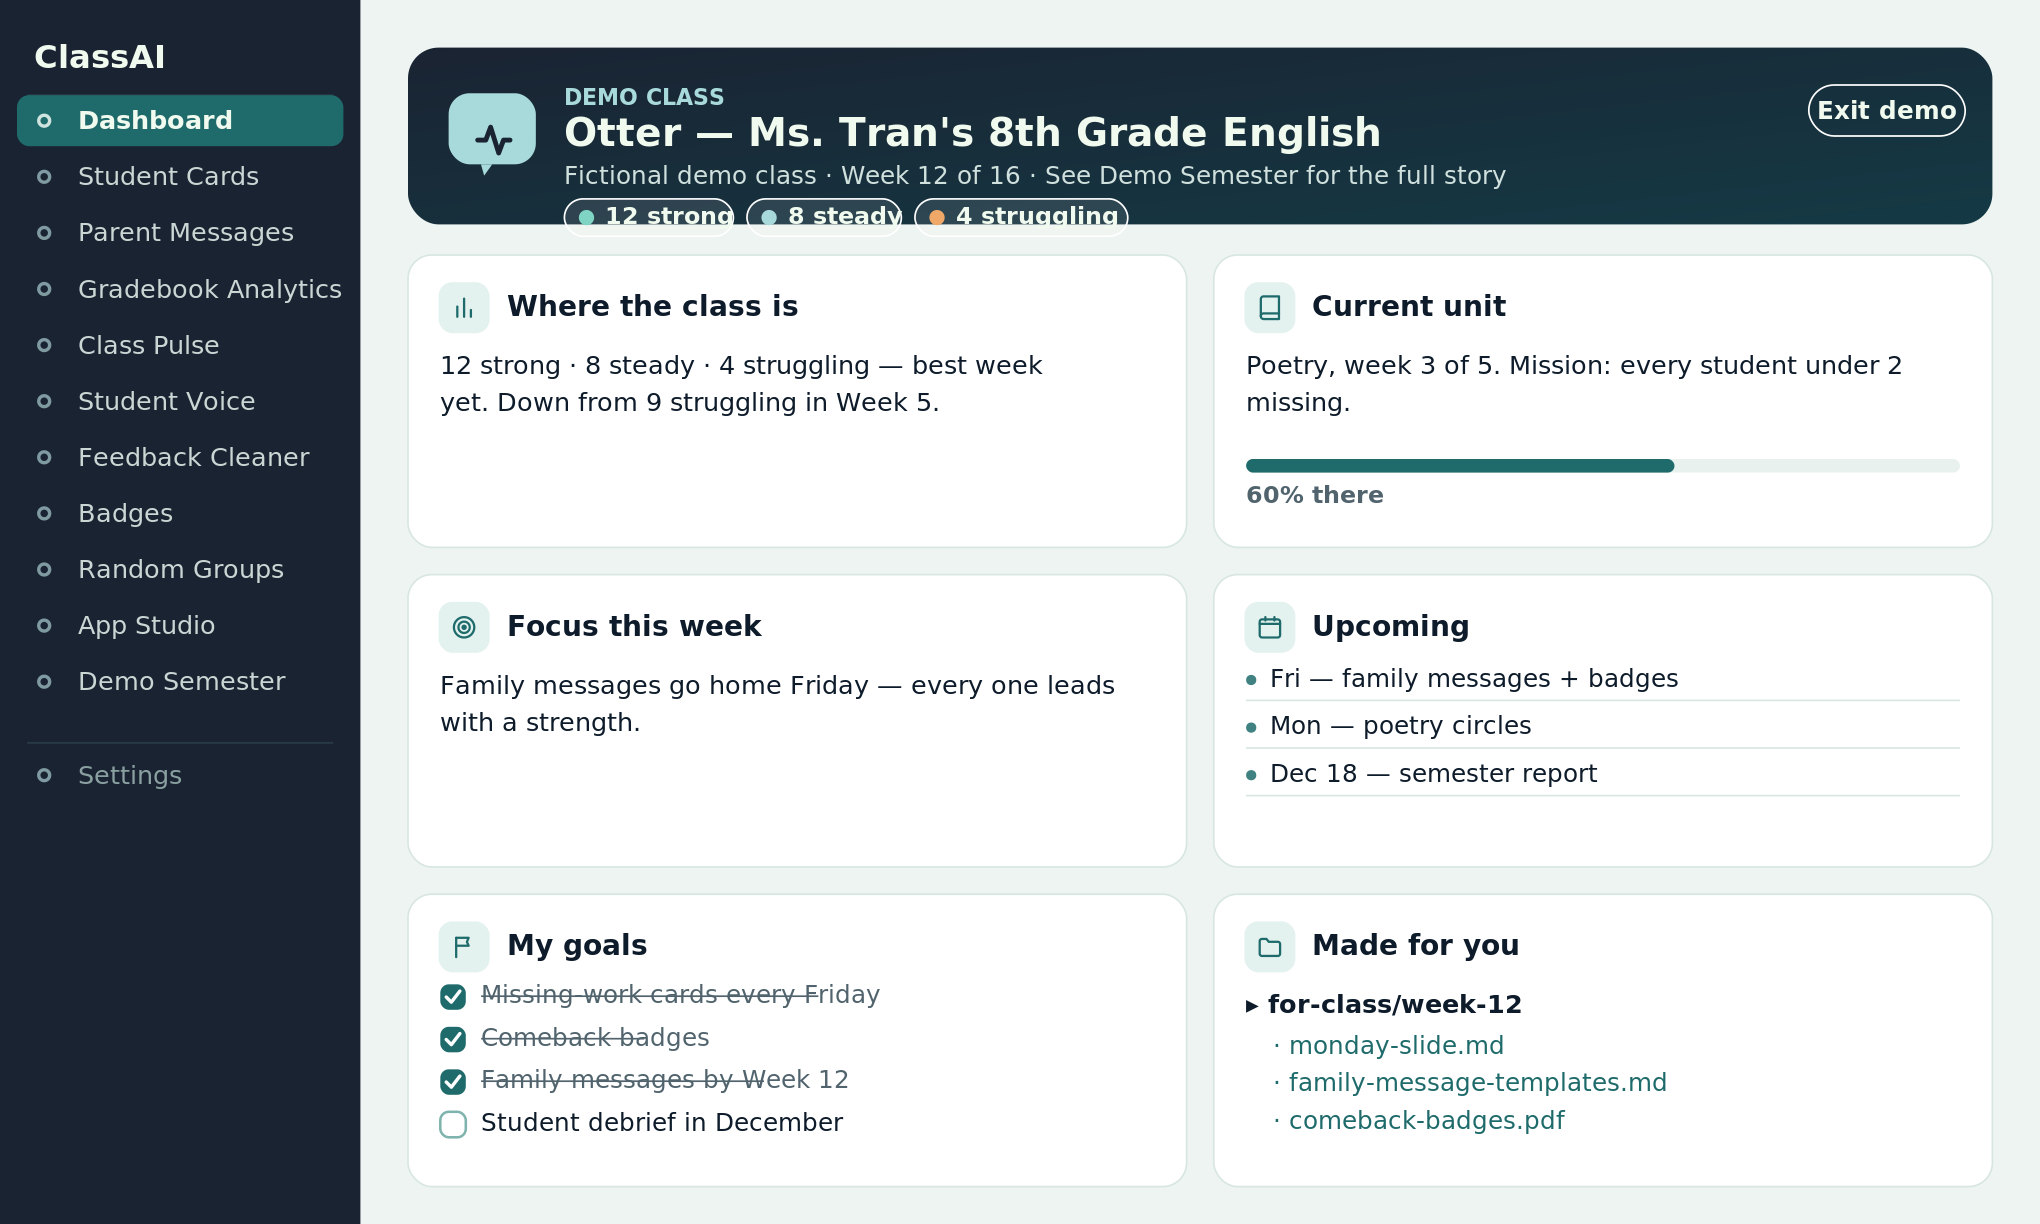
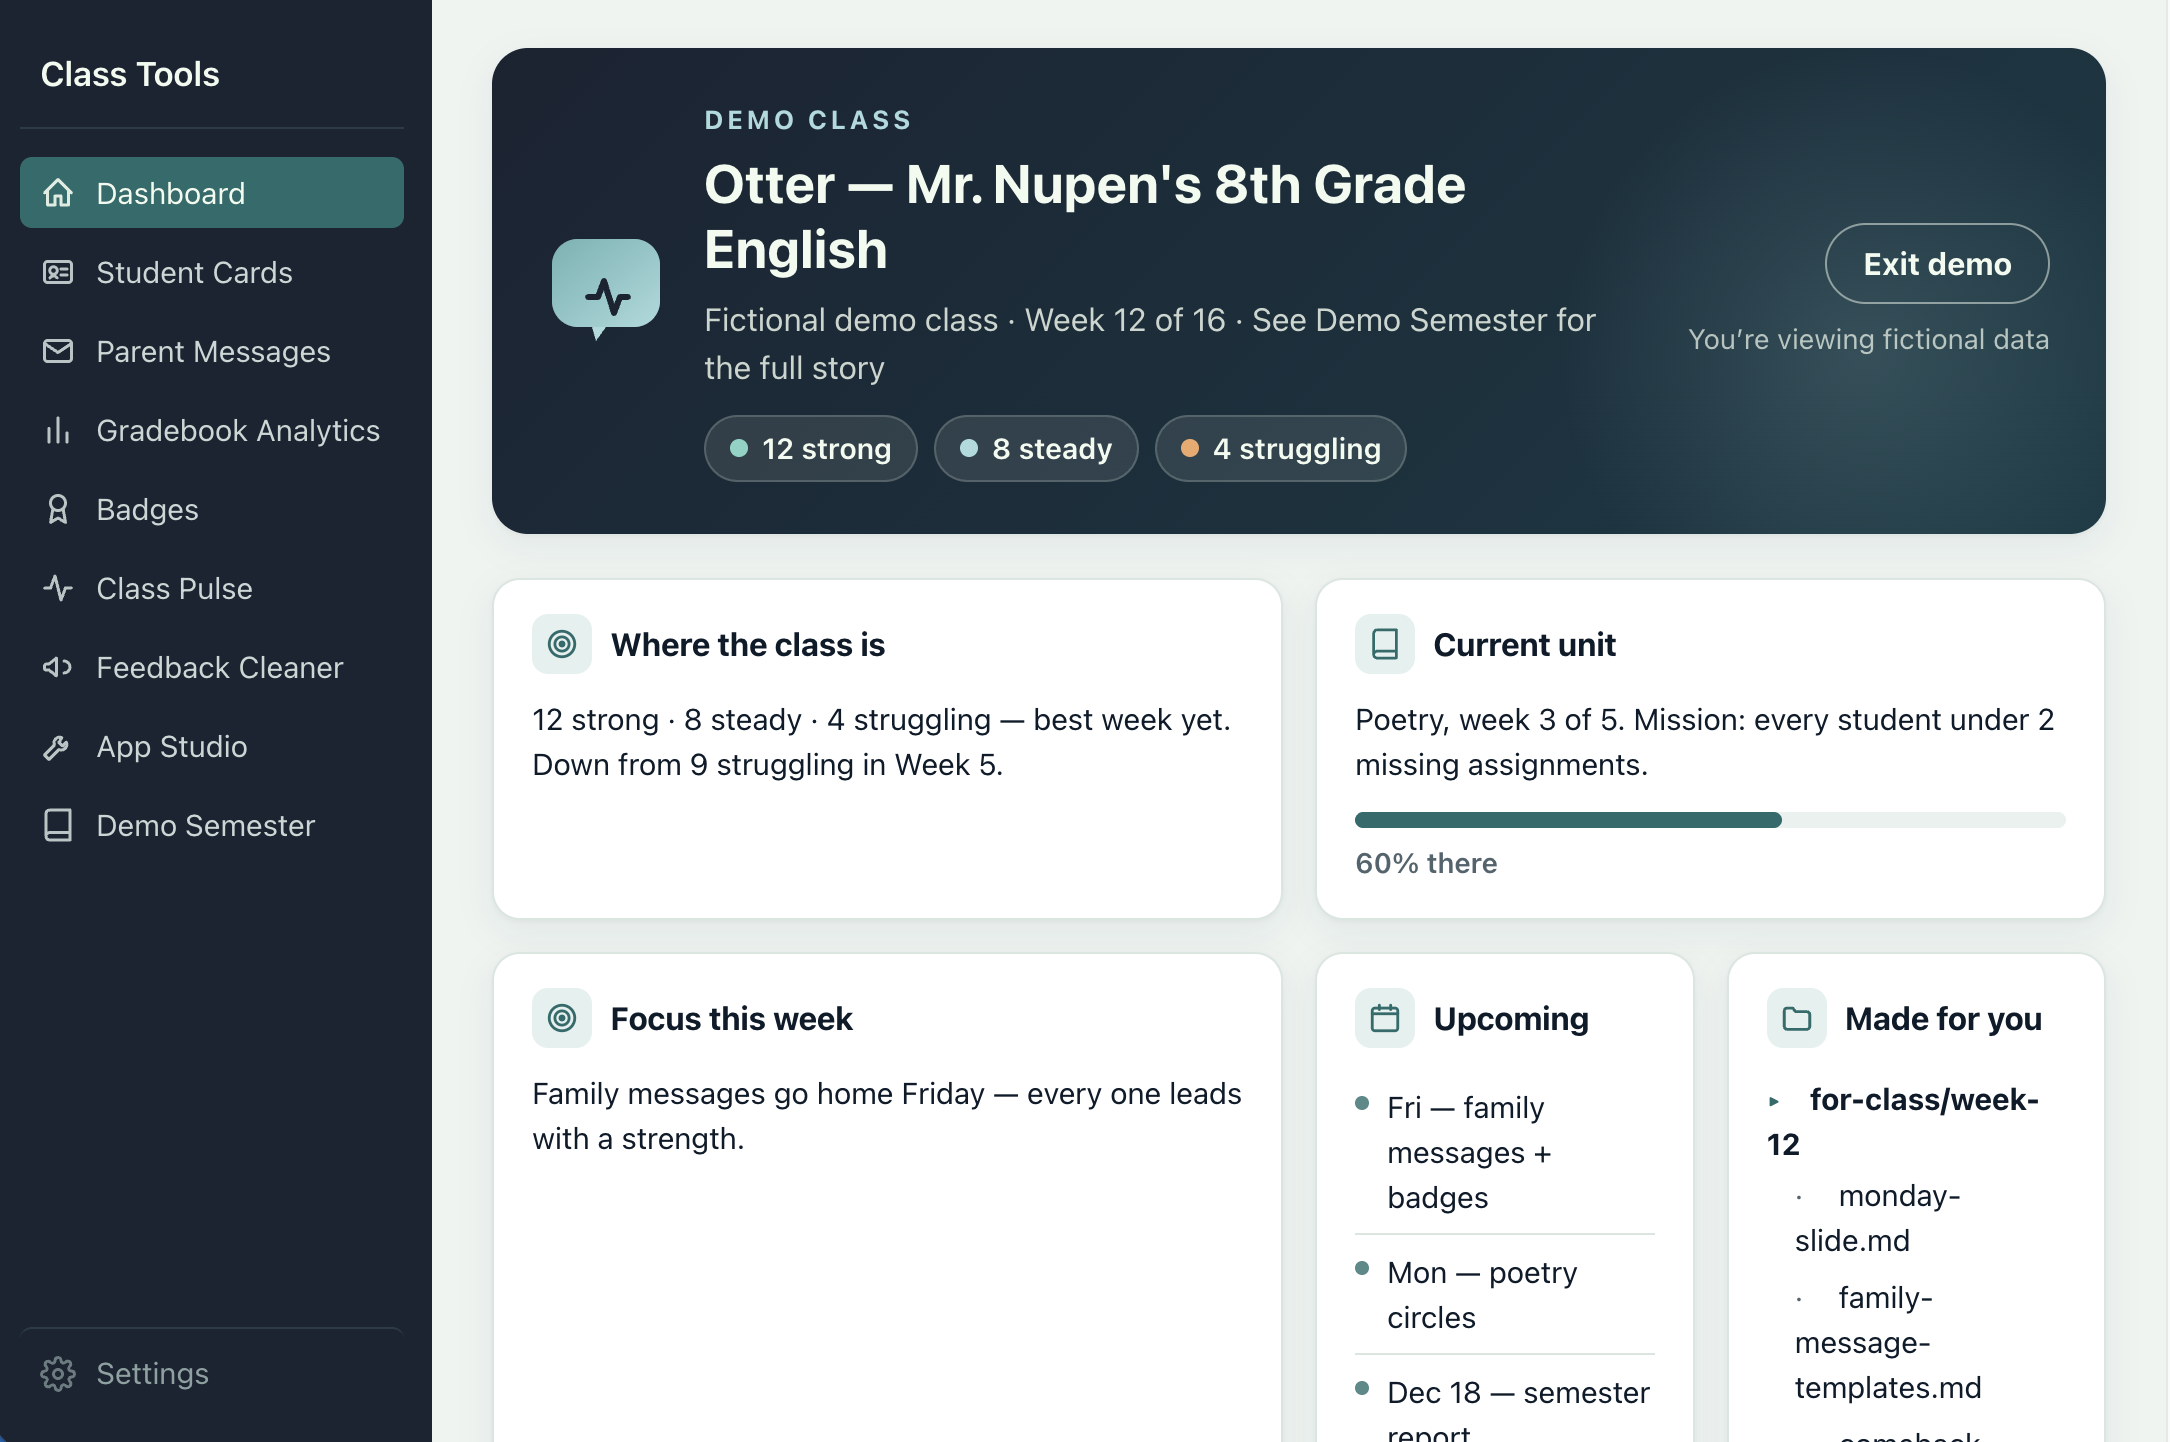
readme updates

diff --git a/README.md b/README.md
@@ -1,18 +1,26 @@
+<div align="center">
+
 # MyClassroomAIbot
 
-**Give your class its own AI — one your students name, with one mission for the semester, that never sees a single student record.**
+### Give your class its own AI — one your students name, with one mission for the semester, that never sees a single student record.
+
+</div>
 
 It drafts your Monday slides, your parent messages, your encouragement cards. It reads how the class is doing through name-free summaries and adjusts what it makes next. And your gradebook never leaves your laptop — the AI works for your class without ever seeing your students' data.
 
 [ Demo video — placeholder URL: [DEMO_VIDEO_URL] ]
 
-![The dashboard — your class's home base, in demo mode](images/dashboard.png)
+<p align="center">
+  <img src="images/dashboard.png" alt="The Class Tools dashboard — a teacher's home base, shown in demo mode" width="860">
+</p>
 
-A teacher's home base. The AI keeps these cards current through chat — aggregate counts only, never a student's name. Press "See a demo class" to watch it fill in.
+<div align="center"><sub>A teacher's home base. The AI keeps these cards current through chat — aggregate counts only, never a student's name. Press <b>See a demo class</b> to watch it fill in.</sub></div>
 
-![A Monday opening slide the AI generates](images/slide.png)
+<p align="center">
+  <img src="images/slide.png" alt="A Monday opening slide the AI generates" width="640">
+</p>
 
-A Monday opener the AI writes, in the built-in accessible theme: big type, high contrast, one idea, no names.
+<div align="center"><sub>A Monday opener the AI writes, in the built-in accessible theme: big type, high contrast, one idea, no names.</sub></div>
 
 ## See it in 90 seconds
 
@@ -76,9 +84,16 @@ The teacher sets boundaries during onboarding and adjusts them as the experiment
 
 The project includes a set of small browser-based apps the teacher uses to do anything that touches student data. They run entirely offline — no network calls, no cloud, no AI in the loop. Your roster and gradebook never leave your laptop. **They're safe to use with real student data.**
 
-**The privacy story on one page:** [`setup/permissions/privacy-one-pager.html`](setup/permissions/privacy-one-pager.html) shows exactly what crosses the line to the AI and what never does — open it, print it, hand it to your principal or a curious colleague.
-
 You open them through **Class Tools** (`local-tools/ClassAI-dashboard.html`) — double-click it once, and a sidebar lets you jump between apps.
+
+<table>
+<tr>
+<td width="50%" valign="top"><img src="images/student-cards.png" alt="Student Cards — printable per-student cards listing missing work with checkboxes"><br><sub><b>Student Cards</b> — one printable card per student: missing work with checkboxes, or a full color-coded progress snapshot.</sub></td>
+<td width="50%" valign="top"><img src="images/app-studio.png" alt="App Studio — copy-paste prompts your AI uses to build new offline tools"><br><sub><b>App Studio</b> — when the included apps don't cover it, your AI builds the next tool from a copy-paste prompt.</sub></td>
+</tr>
+</table>
+
+**The privacy story on one page:** [`setup/permissions/privacy-one-pager.html`](setup/permissions/privacy-one-pager.html) shows exactly what crosses the line to the AI and what never does — open it, print it, hand it to your principal or a curious colleague.
 
 Included today:
 
@@ -104,7 +119,8 @@ Included today:
 
 **These tools are a starting set — your AI builds the next one.** Open **App Studio** in the sidebar for a gallery of ideas, each with a ready-to-paste prompt. When you need something the included apps don't cover, the **teacher-app-builder skill** (installable in Claude Cowork) lets the AI generate a new offline app for you. It asks a few questions, builds the HTML, runs a privacy check, and registers the new app with the Dashboard sidebar automatically. Install instructions: [docs/teacher-app-builder.md](docs/teacher-app-builder.md).
 
-## What's in this folder
+<details>
+<summary><b>What's in this folder</b> — full file map</summary>
 
 ```
 MyClassroomAIbot/
@@ -159,13 +175,11 @@ MyClassroomAIbot/
 │   └── fictional-gradebook-canvas.csv  ← 29 fake students, real Canvas LMS export format (emoji headers, points-possible row, "Last, First" names)
 │
 ├── images/                            ← screenshots shown in this README
-├── docs/
-│   ├── teacher-app-builder.md         ← install instructions for the build-your-own-app skill
-│   ├── 10x-roadmap.md                 ← where the project is headed next
-│   └── 10x-plan.md                    ← the prioritized plan behind the latest round of polish
-│
-└── teacher-app-builder-skill-upload.zip  ← installer for the build-your-own-app skill (see "The offline apps" section)
+└── docs/
+    └── teacher-app-builder.md         ← install instructions for the build-your-own-app skill
 ```
+
+</details>
 
 ## Going deeper without your students
 
@@ -178,7 +192,3 @@ From the Dashboard, walk through Student Cards → Class Pulse → Parent Messag
 Open this folder in Claude Cowork and say hi. Run Class Pulse on the demo class, paste the aggregate into Cowork, and ask the AI for "Monday's opening slide." That's the loop from "The experiment" running on a fictional class.
 
 The full setup walkthrough — admin permission, parent letter, day one with real students — is in [setup/getting-started.md](setup/getting-started.md).
-
-## Next steps
-
-Where this is headed — demo video, end-of-experiment report card, persona packs, a student-voice tool — lives in [docs/10x-roadmap.md](docs/10x-roadmap.md).